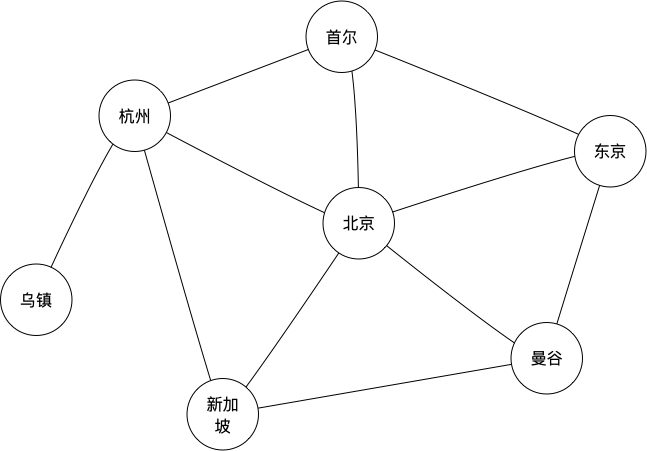
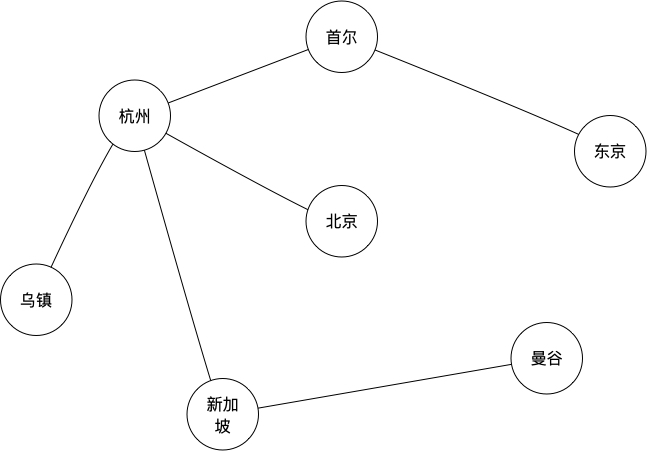
添加深度优先搜索

diff --git a/my-learn/my-algorithm/src/test/java/com/nicai/algorithm/map/MapSearchTest.java b/my-learn/my-algorithm/src/test/java/com/nicai/algorithm/map/MapSearchTest.java
@@ -2,6 +2,7 @@ package com.nicai.algorithm.map;
 
 import com.google.common.collect.Lists;
 import com.google.common.collect.Maps;
+import lombok.extern.slf4j.Slf4j;
 import org.junit.Assert;
 import org.junit.BeforeClass;
 import org.junit.Test;
@@ -15,12 +16,14 @@ import java.util.Map;
  * @author guozhe
  * @date 2020/09/07
  */
+@Slf4j
 public class MapSearchTest {
 
     /**
      * 被测试类列表
      */
-    private static final List<MapSearch<Location>> TO_BE_TESTED = Lists.newArrayList(new BreadthFirstSearch<>());
+    private static final List<MapSearch<Location>> TO_BE_TESTED = Lists.newArrayList(new BreadthFirstSearch<>(),
+            new DepthFirstSearch<>());
 
     /**
      * 图：src/main/resources/map/图-基础.jpg
@@ -43,20 +46,27 @@ public class MapSearchTest {
     public static void initMap() {
         MAP.put(wuzhen, Lists.newArrayList(hangzhou));
         MAP.put(hangzhou, Lists.newArrayList(seoul, beijing, singapore));
-        MAP.put(seoul, Lists.newArrayList(hangzhou, beijing, tokyo));
-        MAP.put(beijing, Lists.newArrayList(hangzhou, seoul, tokyo, bangkok, singapore));
-        MAP.put(singapore, Lists.newArrayList(hangzhou, beijing, bangkok));
-        MAP.put(tokyo, Lists.newArrayList(seoul, beijing, bangkok));
-        MAP.put(bangkok, Lists.newArrayList(singapore, beijing, tokyo));
+        MAP.put(seoul, Lists.newArrayList(hangzhou, tokyo));
+        MAP.put(beijing, Lists.newArrayList(hangzhou));
+        MAP.put(singapore, Lists.newArrayList(hangzhou, bangkok));
+        MAP.put(tokyo, Lists.newArrayList(seoul));
+        MAP.put(bangkok, Lists.newArrayList(singapore));
     }
 
     @Test
     public void haveValue() {
-        TO_BE_TESTED.forEach(mapSearch -> Assert.assertTrue(mapSearch.haveValue(MAP, wuzhen, beijing)));
+        TO_BE_TESTED.forEach(mapSearch -> Assert.assertTrue(invokeHaveValue(mapSearch, beijing)));
+    }
+
+    private boolean invokeHaveValue(MapSearch<Location> mapSearch, Location end) {
+        log.info("mapSearch={}start=====================", mapSearch.getClass().getName());
+        boolean result = mapSearch.haveValue(MAP, wuzhen, end);
+        log.info("mapSearch={}end=======================", mapSearch.getClass().getName());
+        return result;
     }
 
     @Test
     public void haveNoValue() {
-        TO_BE_TESTED.forEach(mapSearch -> Assert.assertFalse(mapSearch.haveValue(MAP, wuzhen, new Location("hello"))));
+        TO_BE_TESTED.forEach(mapSearch -> Assert.assertFalse(invokeHaveValue(mapSearch, new Location("hello"))));
     }
 }

diff --git a/my-learn/my-algorithm/src/main/java/com/nicai/algorithm/map/DepthFirstSearch.java b/my-learn/my-algorithm/src/main/java/com/nicai/algorithm/map/DepthFirstSearch.java
@@ -1,0 +1,56 @@
+package com.nicai.algorithm.map;
+
+import com.google.common.collect.Lists;
+import lombok.extern.slf4j.Slf4j;
+
+import java.util.List;
+import java.util.Map;
+import java.util.Stack;
+
+/**
+ * DepthFirstSearch
+ * <p>
+ * 深度优先搜索，顺着某个节点一直往下查找，直到某个节点没有子节点再换另一个节点做同样的查找
+ * 解决问题：
+ * 1、是否有路径
+ * 2、最短的路径
+ *
+ * @author guozhe
+ * @date 2020/09/10
+ */
+@Slf4j
+public class DepthFirstSearch<K> implements MapSearch<K> {
+
+    @Override
+    public List<K> search(Map<K, List<K>> map, K start, K end) {
+        return Lists.newArrayList();
+    }
+
+    @Override
+    public boolean haveValue(Map<K, List<K>> map, K start, K end) {
+        // 用于存储候补节点的栈
+        Stack<K> stack = new Stack<>();
+        // 记录被搜索过的节点
+        List<K> searched = Lists.newArrayList();
+        map.get(start).forEach(stack::push);
+        while (!stack.isEmpty()) {
+            // 弹出一个元素
+            K pop = stack.pop();
+            // 如果已经被搜索过，则直接跳过
+            if (searched.contains(pop)) {
+                continue;
+            }
+            log.info("pop={}", pop);
+            // 如果当前元素是被查找的元素，则返回true
+            if (pop.equals(end)) {
+                return true;
+            } else {
+                // 把被搜索过的节点加入被搜索的列表中
+                searched.add(pop);
+                // 否则把此节点的所有子节点压入栈中继续查找
+                map.get(pop).forEach(stack::push);
+            }
+        }
+        return false;
+    }
+}

diff --git a/my-learn/my-algorithm/src/main/java/com/nicai/algorithm/map/BreadthFirstSearch.java b/my-learn/my-algorithm/src/main/java/com/nicai/algorithm/map/BreadthFirstSearch.java
@@ -8,7 +8,8 @@ import java.util.*;
 
 /**
  * BreadthFirstSearch
- * 广度优先搜索，解决问题如下
+ * 广度优先搜索，越靠近搜索节点，越先被搜索
+ * 解决问题如下
  * 1、a点能不能到达b点
  * 2、从a点到b点的最短路径
  *
